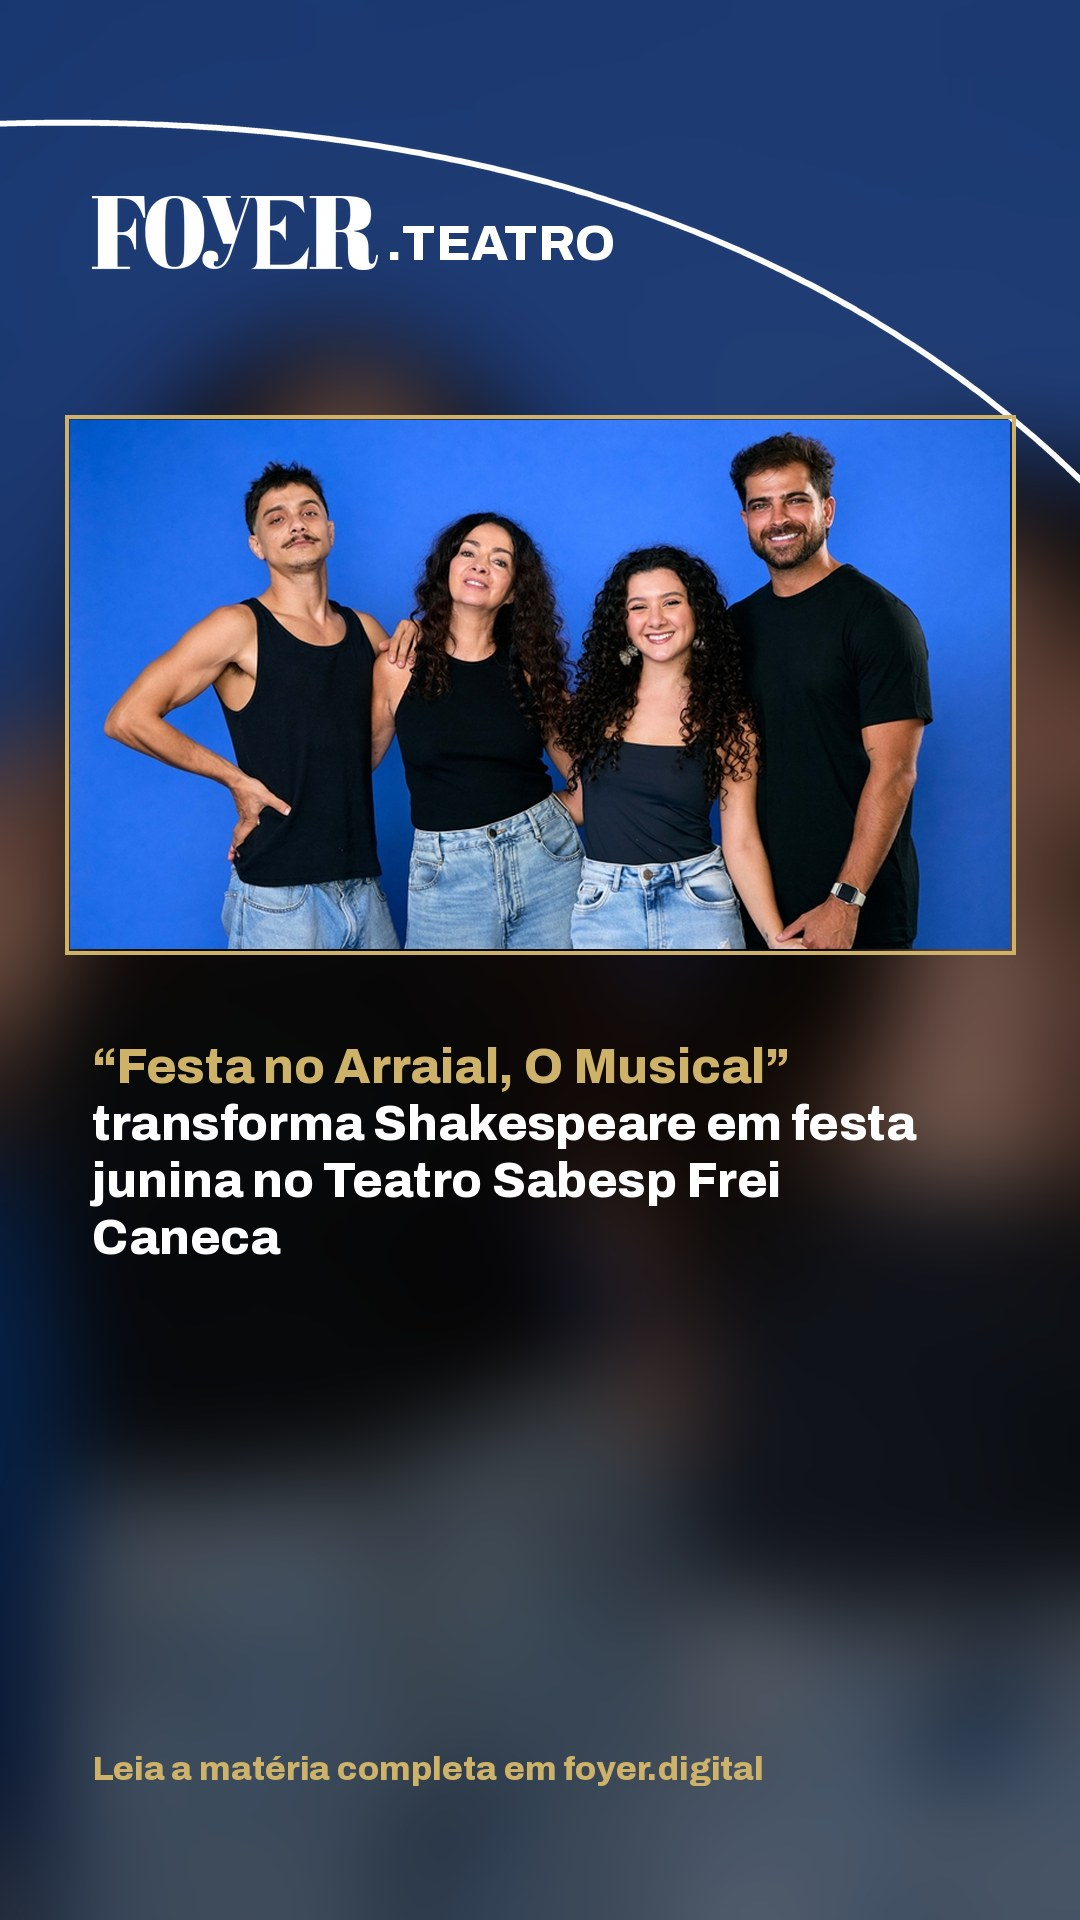
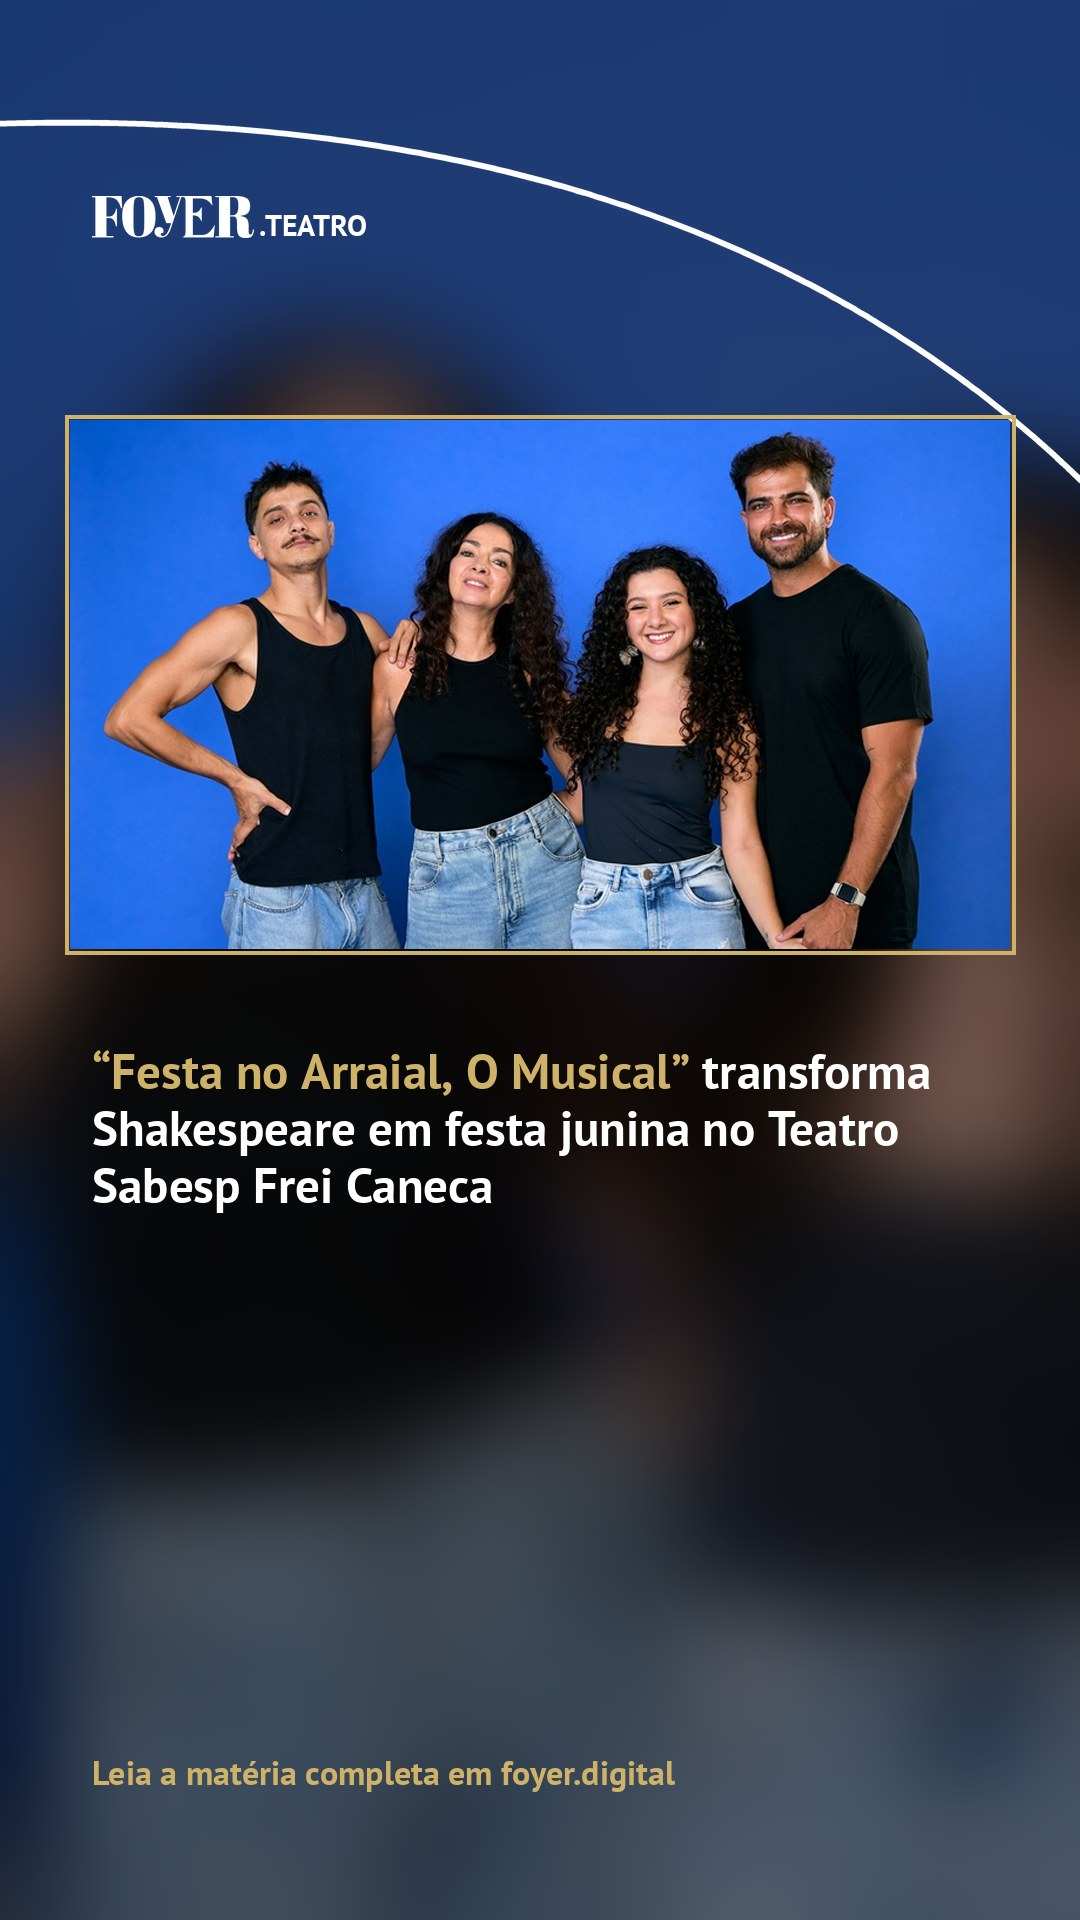
Artes do Instagram: título e editoria em PT Sans Bold, formato final fiel aos posts da casa

Changed region(s): [[0.0917, 0.5312, 0.8556, 0.6562], [0.0917, 0.0938, 0.5806, 0.1562], [0.0917, 0.9062, 0.7028, 0.9375]]

diff --git a/tools/gera_social.py b/tools/gera_social.py
@@ -99,7 +99,7 @@ def _tokens_titulo(pg):
 
 
 def _desenha_titulo(dr, toks, x, y_base, larg, tam, entre=1.16):
-    f = _fonte('Archivo-Bold.ttf', tam)
+    f = _fonte('PTSans-Bold.ttf', tam)
     esp = dr.textlength(' ', font=f)
     linhas, atual, cw = [], [], 0
     for w, ouro in toks:
@@ -130,7 +130,7 @@ def _cabecalho(dr, base, cat, y=132):
     logo = logo.resize((round(logo.width * esc), alt), Image.LANCZOS)
     x = 92
     base.paste(Image.new('RGB', logo.size, BRANCO), (x, y), logo.getchannel('A'))
-    f_sans = _fonte('Archivo-Bold.ttf', 30)
+    f_sans = _fonte('PTSans-Bold.ttf', 30)
     sufixo = '.' + (cat or 'Teatro').upper()
     dr.text((x + logo.width + 5, y + alt - 33), sufixo, font=f_sans, fill=BRANCO)
 
@@ -209,7 +209,7 @@ def _gerar_story(pg):
     tam = 54
     if sum(len(t) for t, _ in toks) > 80:
         tam -= 5
-    f = _fonte('Archivo-Bold.ttf', tam)
+    f = _fonte('PTSans-Bold.ttf', tam)
     # desenha do topo do bloco (calcula altura primeiro numa passada seca)
     dr2 = ImageDraw.Draw(Image.new('RGB', (10, 10)))
     esp = dr2.textlength(' ', font=f)
@@ -224,7 +224,7 @@ def _gerar_story(pg):
         cw += tw + esp
     alt_bloco = round(tam * 1.16) * linhas
     _desenha_titulo(dr, toks, 92, min(y_texto_topo + alt_bloco, h - 250), larg, tam)
-    f_mini = _fonte('Archivo-Bold.ttf', 34)
+    f_mini = _fonte('PTSans-Bold.ttf', 34)
     dr.text((92, h - 170), 'Leia a matéria completa em foyer.digital', font=f_mini, fill=OURO)
     return base
 
